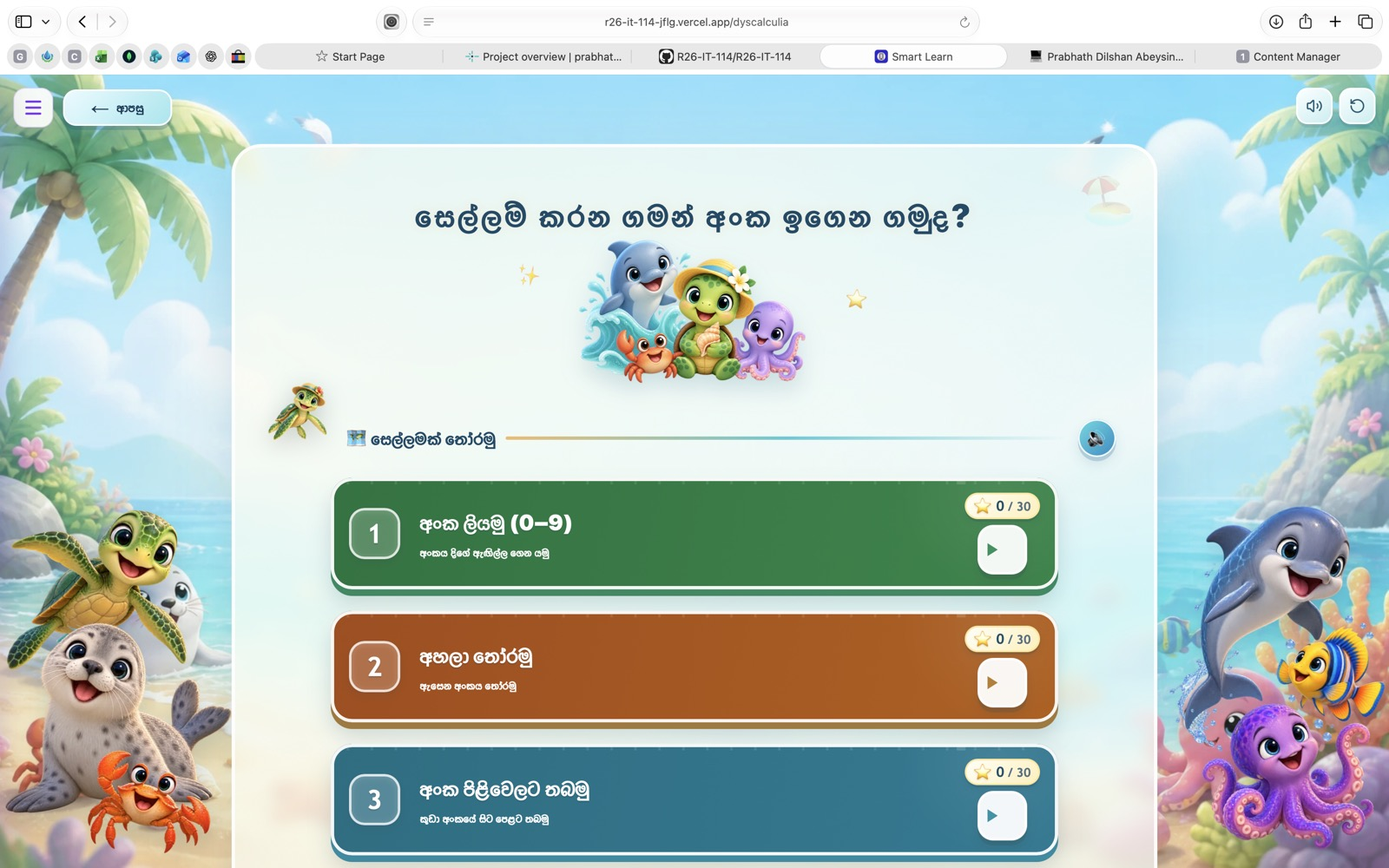
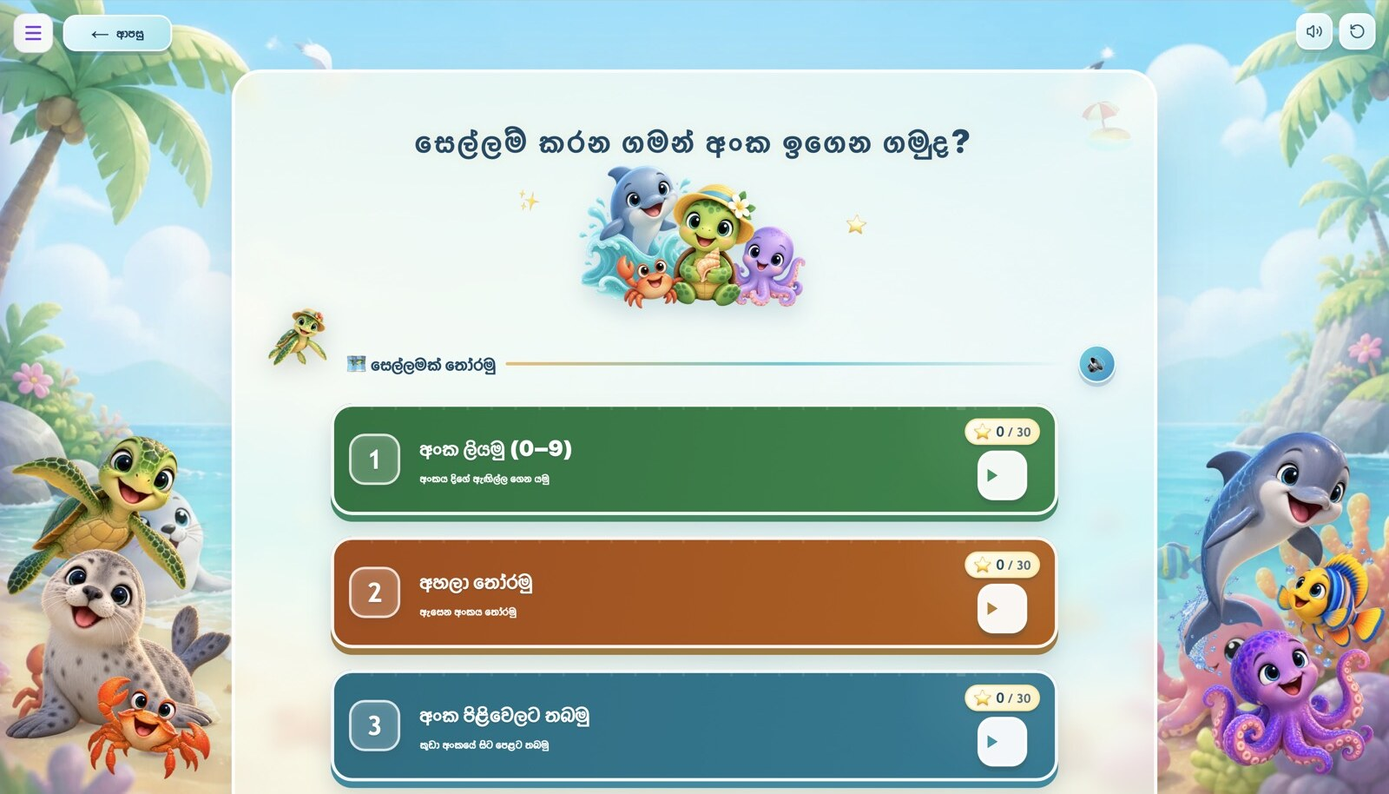
Crop browser toolbars from research and tender screenshots

diff --git a/index.html b/index.html
@@ -273,7 +273,7 @@
     </section>
 
 <section id="certifications" class="skills"><div class="container"><div class="section-header"><h2 class="section-title">Training &amp; Achievements</h2><p class="section-subtitle">Cloud learning, leadership and accomplishments</p></div><div class="skills-grid"><div class="skill-category"><h3>AWS SimuLearn</h3><p>Completion certificates (2026): Cloud Computing Essentials; Cloud First Steps; Core Security Concepts; Highly Available Web Applications; Databases in Practice; First NoSQL Database; Networking Concepts; File Systems in the Cloud; Computing Solutions.</p></div><div class="skill-category"><h3>Achievements</h3><p>Mathematics Olympiad — 1st Place, Nikawaratiya Division (2016); SLIIT Colours (2023, 2024); School Deputy Head Prefect (2020); School Sports Captain (2019–2020).</p></div><div class="skill-category"><h3>Additional Skills</h3><p>Problem-solving, communication, teamwork, design thinking, project coordination and technical troubleshooting.</p><p>Languages: Sinhala and English.</p></div></div></div></section>
-<section id="research" class="research"><div class="container"><div class="section-header"><p class="research-eyebrow">FEATURED UNDERGRADUATE RESEARCH</p><h2 class="section-title">Learning through play.</h2><p class="section-subtitle">Smart Learn — Dyscalculia Intervention Module</p></div><div class="research-intro"><div><h3>My contribution</h3><p>As a member of a four-person research group, I developed the Dyscalculia Intervention Module within Smart Learn, a platform designed for Sinhala-speaking children aged 6–8 with neurodevelopmental learning difficulties.</p><p>My component includes number tracing, sequencing, quantity matching and mathematical symbol recognition, with Sinhala instructions, progress indicators and star rewards in an ocean-themed interface.</p></div><div class="research-summary"><h3>Built with</h3><div class="project-tech"><span class="tech-tag"><span class="technology-logos" aria-hidden="true"><img class="technology-logo logo-react" src="assets/images/technologies/react.svg" alt="" width="24" height="24" loading="lazy"></span>React.js</span><span class="tech-tag"><span class="technology-logos" aria-hidden="true"><img class="technology-logo logo-javascript" src="assets/images/technologies/javascript.svg" alt="" width="24" height="24" loading="lazy"></span>JavaScript</span><span class="tech-tag"><span class="technology-logos" aria-hidden="true"><img class="technology-logo logo-firebase" src="assets/images/technologies/firebase.svg" alt="" width="24" height="24" loading="lazy"></span>Firebase</span><span class="tech-tag">REST APIs</span></div><a href="https://r26-it-114-jflg.vercel.app/dyscalculia" class="btn btn-primary" target="_blank" rel="noopener noreferrer">Try My Module ↗</a></div></div><div class="research-gallery"><figure class="research-shot"><div class="research-thumbnail"><a class="research-preview" style="--shot-ratio:1350/1040;--shot-width:147.85185%;--shot-left:-24.07407%;--shot-top:-19.23077%" href="assets/images/research/module-overview.jpg" target="_blank" rel="noopener noreferrer" aria-label="Open My learning module screenshot"><img src="assets/images/research/module-overview.jpg" alt="My learning module — Smart Learn screenshot" loading="lazy" width="1600" height="1000"></a></div><figcaption><h3>My learning module</h3><p>Sinhala game selection and activity progress.</p><a href="assets/images/research/module-overview.jpg" target="_blank" rel="noopener noreferrer">View screenshot ↗</a></figcaption></figure><figure class="research-shot"><div class="research-thumbnail"><a class="research-preview" style="--shot-ratio:1570/1100;--shot-width:127.13376%;--shot-left:-25.79618%;--shot-top:-11.81818%" href="assets/images/research/number-tracing.jpg" target="_blank" rel="noopener noreferrer" aria-label="Open Number tracing screenshot"><img src="assets/images/research/number-tracing.jpg" alt="Number tracing — Smart Learn screenshot" loading="lazy" width="1600" height="1000"></a></div><figcaption><h3>Number tracing</h3><p>A guided canvas for practicing number shapes.</p><a href="assets/images/research/number-tracing.jpg" target="_blank" rel="noopener noreferrer">View screenshot ↗</a></figcaption></figure><figure class="research-shot"><div class="research-thumbnail"><a class="research-preview" style="--shot-ratio:1630/585;--shot-width:122.45399%;--shot-left:-21.16564%;--shot-top:-34.18803%" href="assets/images/research/number-sequencing.jpg" target="_blank" rel="noopener noreferrer" aria-label="Open Number sequencing screenshot"><img src="assets/images/research/number-sequencing.jpg" alt="Number sequencing — Smart Learn screenshot" loading="lazy" width="1600" height="1000"></a></div><figcaption><h3>Number sequencing</h3><p>Arrange numbers in order through interactive activities.</p><a href="assets/images/research/number-sequencing.jpg" target="_blank" rel="noopener noreferrer">View screenshot ↗</a></figcaption></figure><figure class="research-shot"><div class="research-thumbnail"><a class="research-preview" style="--shot-ratio:1605/775;--shot-width:124.36137%;--shot-left:-23.05296%;--shot-top:-25.80645%" href="assets/images/research/symbol-recognition.jpg" target="_blank" rel="noopener noreferrer" aria-label="Open Symbol recognition screenshot"><img src="assets/images/research/symbol-recognition.jpg" alt="Symbol recognition — Smart Learn screenshot" loading="lazy" width="1600" height="1000"></a></div><figcaption><h3>Symbol recognition</h3><p>Identify mathematical symbols using Sinhala prompts.</p><a href="assets/images/research/symbol-recognition.jpg" target="_blank" rel="noopener noreferrer">View screenshot ↗</a></figcaption></figure><figure class="research-shot"><div class="research-thumbnail"><a class="research-preview" style="--shot-ratio:1630/930;--shot-width:122.45399%;--shot-left:-21.16564%;--shot-top:-21.50538%" href="assets/images/research/quantity-matching.jpg" target="_blank" rel="noopener noreferrer" aria-label="Open Quantity matching screenshot"><img src="assets/images/research/quantity-matching.jpg" alt="Quantity matching — Smart Learn screenshot" loading="lazy" width="1600" height="1000"></a></div><figcaption><h3>Quantity matching</h3><p>Connect a number with its matching quantity.</p><a href="assets/images/research/quantity-matching.jpg" target="_blank" rel="noopener noreferrer">View screenshot ↗</a></figcaption></figure><figure class="research-shot"><div class="research-thumbnail"><a class="research-preview" style="--shot-ratio:1310/1110;--shot-width:152.36641%;--shot-left:-26.33588%;--shot-top:-11.71171%" href="assets/images/research/difficulty-levels.jpg" target="_blank" rel="noopener noreferrer" aria-label="Open Difficulty levels screenshot"><img src="assets/images/research/difficulty-levels.jpg" alt="Difficulty levels — Smart Learn screenshot" loading="lazy" width="1600" height="1000"></a></div><figcaption><h3>Difficulty levels</h3><p>Level selection and star-based progression.</p><a href="assets/images/research/difficulty-levels.jpg" target="_blank" rel="noopener noreferrer">View screenshot ↗</a></figcaption></figure><figure class="research-shot"><div class="research-thumbnail"><a class="research-preview" style="--shot-ratio:1465/795;--shot-width:136.24573%;--shot-left:-18.43003%;--shot-top:-18.23899%" href="assets/images/research/platform-overview.jpg" target="_blank" rel="noopener noreferrer" aria-label="Open Platform overview · Team project screenshot"><img src="assets/images/research/platform-overview.jpg" alt="Platform overview · Team project — Smart Learn screenshot" loading="lazy" width="1600" height="1000"></a></div><figcaption><h3>Platform overview · Team project</h3><p>The wider Smart Learn platform, shown for context.</p><a href="assets/images/research/platform-overview.jpg" target="_blank" rel="noopener noreferrer">View screenshot ↗</a></figcaption></figure></div></div></section>
+<section id="research" class="research"><div class="container"><div class="section-header"><p class="research-eyebrow">FEATURED UNDERGRADUATE RESEARCH</p><h2 class="section-title">Learning through play.</h2><p class="section-subtitle">Smart Learn — Dyscalculia Intervention Module</p></div><div class="research-intro"><div><h3>My contribution</h3><p>As a member of a four-person research group, I developed the Dyscalculia Intervention Module within Smart Learn, a platform designed for Sinhala-speaking children aged 6–8 with neurodevelopmental learning difficulties.</p><p>My component includes number tracing, sequencing, quantity matching and mathematical symbol recognition, with Sinhala instructions, progress indicators and star rewards in an ocean-themed interface.</p></div><div class="research-summary"><h3>Built with</h3><div class="project-tech"><span class="tech-tag"><span class="technology-logos" aria-hidden="true"><img class="technology-logo logo-react" src="assets/images/technologies/react.svg" alt="" width="24" height="24" loading="lazy"></span>React.js</span><span class="tech-tag"><span class="technology-logos" aria-hidden="true"><img class="technology-logo logo-javascript" src="assets/images/technologies/javascript.svg" alt="" width="24" height="24" loading="lazy"></span>JavaScript</span><span class="tech-tag"><span class="technology-logos" aria-hidden="true"><img class="technology-logo logo-firebase" src="assets/images/technologies/firebase.svg" alt="" width="24" height="24" loading="lazy"></span>Firebase</span><span class="tech-tag">REST APIs</span></div><a href="https://r26-it-114-jflg.vercel.app/dyscalculia" class="btn btn-primary" target="_blank" rel="noopener noreferrer">Try My Module ↗</a></div></div><div class="research-gallery"><figure class="research-shot"><div class="research-thumbnail"><a class="research-preview" style="--shot-ratio:1350/1040;--shot-width:147.85185%;--shot-left:-24.07407%;--shot-top:-8.91490%" href="assets/images/research/module-overview.jpg" target="_blank" rel="noopener noreferrer" aria-label="Open My learning module screenshot"><img src="assets/images/research/module-overview.jpg" alt="My learning module — Smart Learn screenshot" loading="lazy" width="1600" height="914"></a></div><figcaption><h3>My learning module</h3><p>Sinhala game selection and activity progress.</p><a href="assets/images/research/module-overview.jpg" target="_blank" rel="noopener noreferrer">View screenshot ↗</a></figcaption></figure><figure class="research-shot"><div class="research-thumbnail"><a class="research-preview" style="--shot-ratio:1570/1100;--shot-width:127.13376%;--shot-left:-25.79618%;--shot-top:-2.06500%" href="assets/images/research/number-tracing.jpg" target="_blank" rel="noopener noreferrer" aria-label="Open Number tracing screenshot"><img src="assets/images/research/number-tracing.jpg" alt="Number tracing — Smart Learn screenshot" loading="lazy" width="1600" height="914"></a></div><figcaption><h3>Number tracing</h3><p>A guided canvas for practicing number shapes.</p><a href="assets/images/research/number-tracing.jpg" target="_blank" rel="noopener noreferrer">View screenshot ↗</a></figcaption></figure><figure class="research-shot"><div class="research-thumbnail"><a class="research-preview" style="--shot-ratio:1630/585;--shot-width:122.45399%;--shot-left:-21.16564%;--shot-top:-15.84871%" href="assets/images/research/number-sequencing.jpg" target="_blank" rel="noopener noreferrer" aria-label="Open Number sequencing screenshot"><img src="assets/images/research/number-sequencing.jpg" alt="Number sequencing — Smart Learn screenshot" loading="lazy" width="1600" height="914"></a></div><figcaption><h3>Number sequencing</h3><p>Arrange numbers in order through interactive activities.</p><a href="assets/images/research/number-sequencing.jpg" target="_blank" rel="noopener noreferrer">View screenshot ↗</a></figcaption></figure><figure class="research-shot"><div class="research-thumbnail"><a class="research-preview" style="--shot-ratio:1605/775;--shot-width:124.36137%;--shot-left:-23.05296%;--shot-top:-11.96322%" href="assets/images/research/symbol-recognition.jpg" target="_blank" rel="noopener noreferrer" aria-label="Open Symbol recognition screenshot"><img src="assets/images/research/symbol-recognition.jpg" alt="Symbol recognition — Smart Learn screenshot" loading="lazy" width="1600" height="914"></a></div><figcaption><h3>Symbol recognition</h3><p>Identify mathematical symbols using Sinhala prompts.</p><a href="assets/images/research/symbol-recognition.jpg" target="_blank" rel="noopener noreferrer">View screenshot ↗</a></figcaption></figure><figure class="research-shot"><div class="research-thumbnail"><a class="research-preview" style="--shot-ratio:1630/930;--shot-width:122.45399%;--shot-left:-21.16564%;--shot-top:-9.96936%" href="assets/images/research/quantity-matching.jpg" target="_blank" rel="noopener noreferrer" aria-label="Open Quantity matching screenshot"><img src="assets/images/research/quantity-matching.jpg" alt="Quantity matching — Smart Learn screenshot" loading="lazy" width="1600" height="914"></a></div><figcaption><h3>Quantity matching</h3><p>Connect a number with its matching quantity.</p><a href="assets/images/research/quantity-matching.jpg" target="_blank" rel="noopener noreferrer">View screenshot ↗</a></figcaption></figure><figure class="research-shot"><div class="research-thumbnail"><a class="research-preview" style="--shot-ratio:1310/1110;--shot-width:152.36641%;--shot-left:-26.33588%;--shot-top:-2.04639%" href="assets/images/research/difficulty-levels.jpg" target="_blank" rel="noopener noreferrer" aria-label="Open Difficulty levels screenshot"><img src="assets/images/research/difficulty-levels.jpg" alt="Difficulty levels — Smart Learn screenshot" loading="lazy" width="1600" height="914"></a></div><figcaption><h3>Difficulty levels</h3><p>Level selection and star-based progression.</p><a href="assets/images/research/difficulty-levels.jpg" target="_blank" rel="noopener noreferrer">View screenshot ↗</a></figcaption></figure><figure class="research-shot"><div class="research-thumbnail"><a class="research-preview" style="--shot-ratio:1465/795;--shot-width:136.24573%;--shot-left:-18.43003%;--shot-top:-4.74402%" href="assets/images/research/platform-overview.jpg" target="_blank" rel="noopener noreferrer" aria-label="Open Platform overview · Team project screenshot"><img src="assets/images/research/platform-overview.jpg" alt="Platform overview · Team project — Smart Learn screenshot" loading="lazy" width="1600" height="914"></a></div><figcaption><h3>Platform overview · Team project</h3><p>The wider Smart Learn platform, shown for context.</p><a href="assets/images/research/platform-overview.jpg" target="_blank" rel="noopener noreferrer">View screenshot ↗</a></figcaption></figure></div></div></section>
     <!-- Projects Section -->
     <section id="projects" class="projects">
         <div class="container">
@@ -287,7 +287,7 @@
 <button type="button" class="filter-button" data-filter="group" aria-pressed="false" aria-controls="project-list">Group</button>
 <button type="button" class="filter-button" data-filter="research" aria-pressed="false" aria-controls="project-list">Research</button>
 <button type="button" class="filter-button" data-filter="other" aria-pressed="false" aria-controls="project-list">Other</button>
-</div><p id="project-count" class="project-count" role="status" aria-live="polite"></p><div class="projects-grid" id="project-list"><div class="project-card" data-category="research"><a href="#research" class="project-image research-card-image" aria-label="Explore Smart Learn research"><img src="assets/images/research/module-overview.jpg" alt="Smart Learn learning activity selection" loading="lazy" width="1600" height="1000"></a><div class="project-content"><h3>Smart Learn — Dyscalculia Intervention Module</h3><p class="project-role">Team research · 4 members · My contribution: Dyscalculia Intervention Module</p><p>Undergraduate research supporting Sinhala-speaking children aged 6–8. Includes Number Tracing (0–9), Number Sorting, Balloon Pop and Number Listening, with touch-friendly drag-and-drop, immediate feedback, progress tracking and performance-based star rewards.</p><div class="project-tech"><span class="tech-tag"><span class="technology-logos" aria-hidden="true"><img class="technology-logo logo-react" src="assets/images/technologies/react.svg" alt="" width="24" height="24" loading="lazy"></span>React.js</span><span class="tech-tag"><span class="technology-logos" aria-hidden="true"><img class="technology-logo logo-javascript" src="assets/images/technologies/javascript.svg" alt="" width="24" height="24" loading="lazy"></span>JavaScript</span><span class="tech-tag"><span class="technology-logos" aria-hidden="true"><img class="technology-logo logo-firebase" src="assets/images/technologies/firebase.svg" alt="" width="24" height="24" loading="lazy"></span>Firebase</span><span class="tech-tag">REST APIs</span></div><div class="project-links"><a class="project-link" href="https://github.com/Dill1027/4Y-Research-Project" target="_blank" rel="noopener noreferrer" aria-label="View Smart Learn — Dyscalculia Intervention Module repository on GitHub"><i class="fab fa-github" aria-hidden="true"></i> GitHub</a><a class="project-link" href="https://r26-it-114-jflg.vercel.app" target="_blank" rel="noopener noreferrer" aria-label="View Smart Learn live demo"><i class="fas fa-external-link-alt" aria-hidden="true"></i> Live Demo</a></div></div></div><div class="project-card" data-category="individual"><div class="project-image project-screenshot"><img src="assets/images/projects/vehicle-dashboard.jpg" alt="Deep Tec Vehicle Management dashboard with vehicle status and expiry summaries" loading="lazy" width="1440" height="1000"></div><div class="project-content"><h3>Online Vehicle Management System</h3><p class="project-role">Individual project</p><p>Individual industry project to manage company vehicle information and related workflows.</p><div class="project-tech"><span class="tech-tag"><span class="technology-logos" aria-hidden="true"><img class="technology-logo logo-react" src="assets/images/technologies/react.svg" alt="" width="24" height="24" loading="lazy"></span>React.js</span><span class="tech-tag"><span class="technology-logos" aria-hidden="true"><img class="technology-logo logo-nodejs" src="assets/images/technologies/nodejs.svg" alt="" width="24" height="24" loading="lazy"></span>Node.js</span><span class="tech-tag"><span class="technology-logos" aria-hidden="true"><img class="technology-logo logo-express" src="assets/images/technologies/express.svg" alt="" width="24" height="24" loading="lazy"></span>Express.js</span><span class="tech-tag"><span class="technology-logos" aria-hidden="true"><img class="technology-logo logo-mongodb" src="assets/images/technologies/mongodb.svg" alt="" width="24" height="24" loading="lazy"></span>MongoDB</span></div><div class="project-links"><a class="project-link" href="https://github.com/Dill1027/DT_Vehicles_Management" target="_blank" rel="noopener noreferrer" aria-label="View Online Vehicle Management System repository on GitHub"><i class="fab fa-github" aria-hidden="true"></i> GitHub</a></div></div></div><div class="project-card" data-category="individual"><a class="project-image project-screenshot" href="https://solar-service-shedule.vercel.app/" target="_blank" rel="noopener noreferrer" aria-label="Open Solar Service Reminder System live demo"><img src="assets/images/projects/solar-dashboard.jpg" alt="Solar Service Tracker dashboard with installation, capacity and service summaries" loading="lazy" width="1440" height="1000"></a><div class="project-content"><h3>Solar Service Reminder System</h3><p class="project-role">Individual project</p><p>Individual industry project providing scheduling and reminders for solar service activities.</p><div class="project-tech"><span class="tech-tag"><span class="technology-logos" aria-hidden="true"><img class="technology-logo logo-react" src="assets/images/technologies/react.svg" alt="" width="24" height="24" loading="lazy"></span>React.js</span><span class="tech-tag"><span class="technology-logos" aria-hidden="true"><img class="technology-logo logo-express" src="assets/images/technologies/express.svg" alt="" width="24" height="24" loading="lazy"></span>Express.js</span><span class="tech-tag"><span class="technology-logos" aria-hidden="true"><img class="technology-logo logo-nodejs" src="assets/images/technologies/nodejs.svg" alt="" width="24" height="24" loading="lazy"></span>Node.js</span><span class="tech-tag"><span class="technology-logos" aria-hidden="true"><img class="technology-logo logo-firebase" src="assets/images/technologies/firebase.svg" alt="" width="24" height="24" loading="lazy"></span>Firebase</span></div><div class="project-links"><a class="project-link" href="https://github.com/Dill1027/solar-service-shedule" target="_blank" rel="noopener noreferrer" aria-label="View Solar Service Reminder System repository on GitHub"><i class="fab fa-github" aria-hidden="true"></i> GitHub</a><a class="project-link" href="https://solar-service-shedule.vercel.app/" target="_blank" rel="noopener noreferrer" aria-label="View Solar Service Reminder System live demo"><i class="fas fa-external-link-alt" aria-hidden="true"></i> Live Demo</a></div></div></div><div class="project-card" data-category="individual"><a class="project-image project-screenshot tender-screenshot" href="https://dt-tenders-app-4dbz.vercel.app/dashboard" target="_blank" rel="noopener noreferrer" aria-label="Open Tender Management System demo (sign-in required)"><img src="assets/images/projects/tender-dashboard.jpg" alt="DT TENDERS dashboard with project summary and tender filters" loading="lazy" width="1600" height="1000"></a><div class="project-content"><h3>Tender Management &amp; Reminder System</h3><p class="project-role">Individual project</p><p>Individual industry project to organize tenders and support deadline tracking.</p><div class="project-tech"><span class="tech-tag"><span class="technology-logos" aria-hidden="true"><img class="technology-logo logo-react" src="assets/images/technologies/react.svg" alt="" width="24" height="24" loading="lazy"></span>React.js</span><span class="tech-tag"><span class="technology-logos" aria-hidden="true"><img class="technology-logo logo-express" src="assets/images/technologies/express.svg" alt="" width="24" height="24" loading="lazy"></span>Express.js</span><span class="tech-tag"><span class="technology-logos" aria-hidden="true"><img class="technology-logo logo-nodejs" src="assets/images/technologies/nodejs.svg" alt="" width="24" height="24" loading="lazy"></span>Node.js</span><span class="tech-tag"><span class="technology-logos" aria-hidden="true"><img class="technology-logo logo-firebase" src="assets/images/technologies/firebase.svg" alt="" width="24" height="24" loading="lazy"></span>Firebase</span></div><div class="project-links"><a class="project-link" href="https://github.com/Dill1027/dt-tenders-app" target="_blank" rel="noopener noreferrer" aria-label="View Tender Management &amp; Reminder System repository on GitHub"><i class="fab fa-github" aria-hidden="true"></i> GitHub</a><a class="project-link" href="https://dt-tenders-app-4dbz.vercel.app/dashboard" target="_blank" rel="noopener noreferrer" aria-label="View Tender Management System live demo (sign-in required)"><i class="fas fa-external-link-alt" aria-hidden="true"></i> Live Demo (sign-in required)</a></div></div></div><div class="project-card" data-category="group"><a class="project-image project-screenshot" href="https://acedemic-sheduler.netlify.app/" target="_blank" rel="noopener noreferrer" aria-label="Open Academic Scheduler live demo"><img src="assets/images/projects/academic-scheduler-home.jpg" alt="Academic Scheduler home page with Shape Your Digital Future heading" loading="lazy" width="1440" height="1000"></a><div class="project-content"><h3>Academic Scheduler</h3><p class="project-role">Group project</p><p>SLIIT academic project built using the MERN stack.</p><div class="project-tech"><span class="tech-tag"><span class="technology-logos" aria-hidden="true"><img class="technology-logo logo-react" src="assets/images/technologies/react.svg" alt="" width="24" height="24" loading="lazy"></span>React.js</span><span class="tech-tag"><span class="technology-logos" aria-hidden="true"><img class="technology-logo logo-nodejs" src="assets/images/technologies/nodejs.svg" alt="" width="24" height="24" loading="lazy"></span>Node.js</span><span class="tech-tag"><span class="technology-logos" aria-hidden="true"><img class="technology-logo logo-express" src="assets/images/technologies/express.svg" alt="" width="24" height="24" loading="lazy"></span>Express.js</span><span class="tech-tag"><span class="technology-logos" aria-hidden="true"><img class="technology-logo logo-mongodb" src="assets/images/technologies/mongodb.svg" alt="" width="24" height="24" loading="lazy"></span>MongoDB</span></div><div class="project-links"><a class="project-link" href="https://acedemic-sheduler.netlify.app/" target="_blank" rel="noopener noreferrer">Live Demo</a><a class="project-link" href="https://github.com/Dill1027/Academic-Scheduler" target="_blank" rel="noopener noreferrer" aria-label="View Academic Scheduler repository on GitHub"><i class="fab fa-github" aria-hidden="true"></i> GitHub</a></div></div></div><div class="project-card" data-category="other"><div class="project-image"><i class="fas fa-calculator" aria-hidden="true"></i></div><div class="project-content"><h3>Android Calculator</h3><p class="project-role">Android application</p><p>A Kotlin calculator with addition, subtraction, multiplication and division, input validation and division-by-zero handling.</p><div class="project-tech"><span class="tech-tag"><span class="technology-logos" aria-hidden="true"><img class="technology-logo logo-kotlin" src="assets/images/technologies/kotlin.svg" alt="" width="24" height="24" loading="lazy"></span>Kotlin</span></div><div class="project-links"><a class="project-link" href="https://github.com/Dill1027/MyAndroidProject" target="_blank" rel="noopener noreferrer" aria-label="View Android Calculator repository on GitHub"><i class="fab fa-github" aria-hidden="true"></i> GitHub</a></div></div></div><div class="project-card" data-category="individual"><div class="project-image"><i class="fas fa-list-check" aria-hidden="true"></i></div><div class="project-content"><h3>To-Do App</h3><p class="project-role">Individual project</p><p>SLIIT academic project built with Kotlin.</p><div class="project-tech"><span class="tech-tag"><span class="technology-logos" aria-hidden="true"><img class="technology-logo logo-kotlin" src="assets/images/technologies/kotlin.svg" alt="" width="24" height="24" loading="lazy"></span>Kotlin</span></div></div></div><div class="project-card" data-category="group"><div class="project-image"><i class="fas fa-users" aria-hidden="true"></i></div><div class="project-content"><h3>Dry Craft — Social Media App</h3><p class="project-role">Group project</p><p>Group project for sharing craft tutorials, posts and media, built with React, Spring Boot and MongoDB.</p><div class="project-tech"><span class="tech-tag"><span class="technology-logos" aria-hidden="true"><img class="technology-logo logo-spring" src="assets/images/technologies/spring.svg" alt="" width="24" height="24" loading="lazy"></span>Spring Boot</span></div><div class="project-links"><a class="project-link" href="https://github.com/Dill1027/Dry_Craft" target="_blank" rel="noopener noreferrer" aria-label="View Social Media App repository on GitHub"><i class="fab fa-github" aria-hidden="true"></i> GitHub</a></div></div></div><div class="project-card" data-category="individual"><div class="project-image"><i class="fas fa-shirt" aria-hidden="true"></i></div><div class="project-content"><h3>Apparel Manufacturing Web App</h3><p class="project-role">Individual project</p><p>SLIIT academic project built with the MERN stack.</p><div class="project-tech"><span class="tech-tag"><span class="technology-logos" aria-hidden="true"><img class="technology-logo logo-react" src="assets/images/technologies/react.svg" alt="" width="24" height="24" loading="lazy"></span>React.js</span><span class="tech-tag"><span class="technology-logos" aria-hidden="true"><img class="technology-logo logo-nodejs" src="assets/images/technologies/nodejs.svg" alt="" width="24" height="24" loading="lazy"></span>Node.js</span><span class="tech-tag"><span class="technology-logos" aria-hidden="true"><img class="technology-logo logo-express" src="assets/images/technologies/express.svg" alt="" width="24" height="24" loading="lazy"></span>Express.js</span><span class="tech-tag"><span class="technology-logos" aria-hidden="true"><img class="technology-logo logo-mongodb" src="assets/images/technologies/mongodb.svg" alt="" width="24" height="24" loading="lazy"></span>MongoDB</span></div><div class="project-links"><a class="project-link" href="https://github.com/Dill1027/Appreal_manufacturing" target="_blank" rel="noopener noreferrer" aria-label="View Apparel Manufacturing Web App repository on GitHub"><i class="fab fa-github" aria-hidden="true"></i> GitHub</a></div></div></div></div><aside class="repository-notes" aria-labelledby="repository-notes-title"><h3 id="repository-notes-title">Additional repositories</h3><p>Related repository links. These repositories do not currently contain application source code.</p><ul><li><a href="https://github.com/Dill1027/DeepTecSolarALL" target="_blank" rel="noopener noreferrer">DeepTecSolarALL ↗</a><span>README only</span></li><li><a href="https://github.com/Dill1027/Deeptecallinone" target="_blank" rel="noopener noreferrer">Deeptecallinone ↗</a><span>Empty repository</span></li></ul></aside></div></section>
+</div><p id="project-count" class="project-count" role="status" aria-live="polite"></p><div class="projects-grid" id="project-list"><div class="project-card" data-category="research"><a href="#research" class="project-image research-card-image" aria-label="Explore Smart Learn research"><img src="assets/images/research/module-overview.jpg" alt="Smart Learn learning activity selection" loading="lazy" width="1600" height="914"></a><div class="project-content"><h3>Smart Learn — Dyscalculia Intervention Module</h3><p class="project-role">Team research · 4 members · My contribution: Dyscalculia Intervention Module</p><p>Undergraduate research supporting Sinhala-speaking children aged 6–8. Includes Number Tracing (0–9), Number Sorting, Balloon Pop and Number Listening, with touch-friendly drag-and-drop, immediate feedback, progress tracking and performance-based star rewards.</p><div class="project-tech"><span class="tech-tag"><span class="technology-logos" aria-hidden="true"><img class="technology-logo logo-react" src="assets/images/technologies/react.svg" alt="" width="24" height="24" loading="lazy"></span>React.js</span><span class="tech-tag"><span class="technology-logos" aria-hidden="true"><img class="technology-logo logo-javascript" src="assets/images/technologies/javascript.svg" alt="" width="24" height="24" loading="lazy"></span>JavaScript</span><span class="tech-tag"><span class="technology-logos" aria-hidden="true"><img class="technology-logo logo-firebase" src="assets/images/technologies/firebase.svg" alt="" width="24" height="24" loading="lazy"></span>Firebase</span><span class="tech-tag">REST APIs</span></div><div class="project-links"><a class="project-link" href="https://github.com/Dill1027/4Y-Research-Project" target="_blank" rel="noopener noreferrer" aria-label="View Smart Learn — Dyscalculia Intervention Module repository on GitHub"><i class="fab fa-github" aria-hidden="true"></i> GitHub</a><a class="project-link" href="https://r26-it-114-jflg.vercel.app" target="_blank" rel="noopener noreferrer" aria-label="View Smart Learn live demo"><i class="fas fa-external-link-alt" aria-hidden="true"></i> Live Demo</a></div></div></div><div class="project-card" data-category="individual"><div class="project-image project-screenshot"><img src="assets/images/projects/vehicle-dashboard.jpg" alt="Deep Tec Vehicle Management dashboard with vehicle status and expiry summaries" loading="lazy" width="1440" height="1000"></div><div class="project-content"><h3>Online Vehicle Management System</h3><p class="project-role">Individual project</p><p>Individual industry project to manage company vehicle information and related workflows.</p><div class="project-tech"><span class="tech-tag"><span class="technology-logos" aria-hidden="true"><img class="technology-logo logo-react" src="assets/images/technologies/react.svg" alt="" width="24" height="24" loading="lazy"></span>React.js</span><span class="tech-tag"><span class="technology-logos" aria-hidden="true"><img class="technology-logo logo-nodejs" src="assets/images/technologies/nodejs.svg" alt="" width="24" height="24" loading="lazy"></span>Node.js</span><span class="tech-tag"><span class="technology-logos" aria-hidden="true"><img class="technology-logo logo-express" src="assets/images/technologies/express.svg" alt="" width="24" height="24" loading="lazy"></span>Express.js</span><span class="tech-tag"><span class="technology-logos" aria-hidden="true"><img class="technology-logo logo-mongodb" src="assets/images/technologies/mongodb.svg" alt="" width="24" height="24" loading="lazy"></span>MongoDB</span></div><div class="project-links"><a class="project-link" href="https://github.com/Dill1027/DT_Vehicles_Management" target="_blank" rel="noopener noreferrer" aria-label="View Online Vehicle Management System repository on GitHub"><i class="fab fa-github" aria-hidden="true"></i> GitHub</a></div></div></div><div class="project-card" data-category="individual"><a class="project-image project-screenshot" href="https://solar-service-shedule.vercel.app/" target="_blank" rel="noopener noreferrer" aria-label="Open Solar Service Reminder System live demo"><img src="assets/images/projects/solar-dashboard.jpg" alt="Solar Service Tracker dashboard with installation, capacity and service summaries" loading="lazy" width="1440" height="1000"></a><div class="project-content"><h3>Solar Service Reminder System</h3><p class="project-role">Individual project</p><p>Individual industry project providing scheduling and reminders for solar service activities.</p><div class="project-tech"><span class="tech-tag"><span class="technology-logos" aria-hidden="true"><img class="technology-logo logo-react" src="assets/images/technologies/react.svg" alt="" width="24" height="24" loading="lazy"></span>React.js</span><span class="tech-tag"><span class="technology-logos" aria-hidden="true"><img class="technology-logo logo-express" src="assets/images/technologies/express.svg" alt="" width="24" height="24" loading="lazy"></span>Express.js</span><span class="tech-tag"><span class="technology-logos" aria-hidden="true"><img class="technology-logo logo-nodejs" src="assets/images/technologies/nodejs.svg" alt="" width="24" height="24" loading="lazy"></span>Node.js</span><span class="tech-tag"><span class="technology-logos" aria-hidden="true"><img class="technology-logo logo-firebase" src="assets/images/technologies/firebase.svg" alt="" width="24" height="24" loading="lazy"></span>Firebase</span></div><div class="project-links"><a class="project-link" href="https://github.com/Dill1027/solar-service-shedule" target="_blank" rel="noopener noreferrer" aria-label="View Solar Service Reminder System repository on GitHub"><i class="fab fa-github" aria-hidden="true"></i> GitHub</a><a class="project-link" href="https://solar-service-shedule.vercel.app/" target="_blank" rel="noopener noreferrer" aria-label="View Solar Service Reminder System live demo"><i class="fas fa-external-link-alt" aria-hidden="true"></i> Live Demo</a></div></div></div><div class="project-card" data-category="individual"><a class="project-image project-screenshot tender-screenshot" href="https://dt-tenders-app-4dbz.vercel.app/dashboard" target="_blank" rel="noopener noreferrer" aria-label="Open Tender Management System demo (sign-in required)"><img src="assets/images/projects/tender-dashboard.jpg" alt="DT TENDERS dashboard with project summary and tender filters" loading="lazy" width="1600" height="914"></a><div class="project-content"><h3>Tender Management &amp; Reminder System</h3><p class="project-role">Individual project</p><p>Individual industry project to organize tenders and support deadline tracking.</p><div class="project-tech"><span class="tech-tag"><span class="technology-logos" aria-hidden="true"><img class="technology-logo logo-react" src="assets/images/technologies/react.svg" alt="" width="24" height="24" loading="lazy"></span>React.js</span><span class="tech-tag"><span class="technology-logos" aria-hidden="true"><img class="technology-logo logo-express" src="assets/images/technologies/express.svg" alt="" width="24" height="24" loading="lazy"></span>Express.js</span><span class="tech-tag"><span class="technology-logos" aria-hidden="true"><img class="technology-logo logo-nodejs" src="assets/images/technologies/nodejs.svg" alt="" width="24" height="24" loading="lazy"></span>Node.js</span><span class="tech-tag"><span class="technology-logos" aria-hidden="true"><img class="technology-logo logo-firebase" src="assets/images/technologies/firebase.svg" alt="" width="24" height="24" loading="lazy"></span>Firebase</span></div><div class="project-links"><a class="project-link" href="https://github.com/Dill1027/dt-tenders-app" target="_blank" rel="noopener noreferrer" aria-label="View Tender Management &amp; Reminder System repository on GitHub"><i class="fab fa-github" aria-hidden="true"></i> GitHub</a><a class="project-link" href="https://dt-tenders-app-4dbz.vercel.app/dashboard" target="_blank" rel="noopener noreferrer" aria-label="View Tender Management System live demo (sign-in required)"><i class="fas fa-external-link-alt" aria-hidden="true"></i> Live Demo (sign-in required)</a></div></div></div><div class="project-card" data-category="group"><a class="project-image project-screenshot" href="https://acedemic-sheduler.netlify.app/" target="_blank" rel="noopener noreferrer" aria-label="Open Academic Scheduler live demo"><img src="assets/images/projects/academic-scheduler-home.jpg" alt="Academic Scheduler home page with Shape Your Digital Future heading" loading="lazy" width="1440" height="1000"></a><div class="project-content"><h3>Academic Scheduler</h3><p class="project-role">Group project</p><p>SLIIT academic project built using the MERN stack.</p><div class="project-tech"><span class="tech-tag"><span class="technology-logos" aria-hidden="true"><img class="technology-logo logo-react" src="assets/images/technologies/react.svg" alt="" width="24" height="24" loading="lazy"></span>React.js</span><span class="tech-tag"><span class="technology-logos" aria-hidden="true"><img class="technology-logo logo-nodejs" src="assets/images/technologies/nodejs.svg" alt="" width="24" height="24" loading="lazy"></span>Node.js</span><span class="tech-tag"><span class="technology-logos" aria-hidden="true"><img class="technology-logo logo-express" src="assets/images/technologies/express.svg" alt="" width="24" height="24" loading="lazy"></span>Express.js</span><span class="tech-tag"><span class="technology-logos" aria-hidden="true"><img class="technology-logo logo-mongodb" src="assets/images/technologies/mongodb.svg" alt="" width="24" height="24" loading="lazy"></span>MongoDB</span></div><div class="project-links"><a class="project-link" href="https://acedemic-sheduler.netlify.app/" target="_blank" rel="noopener noreferrer">Live Demo</a><a class="project-link" href="https://github.com/Dill1027/Academic-Scheduler" target="_blank" rel="noopener noreferrer" aria-label="View Academic Scheduler repository on GitHub"><i class="fab fa-github" aria-hidden="true"></i> GitHub</a></div></div></div><div class="project-card" data-category="other"><div class="project-image"><i class="fas fa-calculator" aria-hidden="true"></i></div><div class="project-content"><h3>Android Calculator</h3><p class="project-role">Android application</p><p>A Kotlin calculator with addition, subtraction, multiplication and division, input validation and division-by-zero handling.</p><div class="project-tech"><span class="tech-tag"><span class="technology-logos" aria-hidden="true"><img class="technology-logo logo-kotlin" src="assets/images/technologies/kotlin.svg" alt="" width="24" height="24" loading="lazy"></span>Kotlin</span></div><div class="project-links"><a class="project-link" href="https://github.com/Dill1027/MyAndroidProject" target="_blank" rel="noopener noreferrer" aria-label="View Android Calculator repository on GitHub"><i class="fab fa-github" aria-hidden="true"></i> GitHub</a></div></div></div><div class="project-card" data-category="individual"><div class="project-image"><i class="fas fa-list-check" aria-hidden="true"></i></div><div class="project-content"><h3>To-Do App</h3><p class="project-role">Individual project</p><p>SLIIT academic project built with Kotlin.</p><div class="project-tech"><span class="tech-tag"><span class="technology-logos" aria-hidden="true"><img class="technology-logo logo-kotlin" src="assets/images/technologies/kotlin.svg" alt="" width="24" height="24" loading="lazy"></span>Kotlin</span></div></div></div><div class="project-card" data-category="group"><div class="project-image"><i class="fas fa-users" aria-hidden="true"></i></div><div class="project-content"><h3>Dry Craft — Social Media App</h3><p class="project-role">Group project</p><p>Group project for sharing craft tutorials, posts and media, built with React, Spring Boot and MongoDB.</p><div class="project-tech"><span class="tech-tag"><span class="technology-logos" aria-hidden="true"><img class="technology-logo logo-spring" src="assets/images/technologies/spring.svg" alt="" width="24" height="24" loading="lazy"></span>Spring Boot</span></div><div class="project-links"><a class="project-link" href="https://github.com/Dill1027/Dry_Craft" target="_blank" rel="noopener noreferrer" aria-label="View Social Media App repository on GitHub"><i class="fab fa-github" aria-hidden="true"></i> GitHub</a></div></div></div><div class="project-card" data-category="individual"><div class="project-image"><i class="fas fa-shirt" aria-hidden="true"></i></div><div class="project-content"><h3>Apparel Manufacturing Web App</h3><p class="project-role">Individual project</p><p>SLIIT academic project built with the MERN stack.</p><div class="project-tech"><span class="tech-tag"><span class="technology-logos" aria-hidden="true"><img class="technology-logo logo-react" src="assets/images/technologies/react.svg" alt="" width="24" height="24" loading="lazy"></span>React.js</span><span class="tech-tag"><span class="technology-logos" aria-hidden="true"><img class="technology-logo logo-nodejs" src="assets/images/technologies/nodejs.svg" alt="" width="24" height="24" loading="lazy"></span>Node.js</span><span class="tech-tag"><span class="technology-logos" aria-hidden="true"><img class="technology-logo logo-express" src="assets/images/technologies/express.svg" alt="" width="24" height="24" loading="lazy"></span>Express.js</span><span class="tech-tag"><span class="technology-logos" aria-hidden="true"><img class="technology-logo logo-mongodb" src="assets/images/technologies/mongodb.svg" alt="" width="24" height="24" loading="lazy"></span>MongoDB</span></div><div class="project-links"><a class="project-link" href="https://github.com/Dill1027/Appreal_manufacturing" target="_blank" rel="noopener noreferrer" aria-label="View Apparel Manufacturing Web App repository on GitHub"><i class="fab fa-github" aria-hidden="true"></i> GitHub</a></div></div></div></div><aside class="repository-notes" aria-labelledby="repository-notes-title"><h3 id="repository-notes-title">Additional repositories</h3><p>Related repository links. These repositories do not currently contain application source code.</p><ul><li><a href="https://github.com/Dill1027/DeepTecSolarALL" target="_blank" rel="noopener noreferrer">DeepTecSolarALL ↗</a><span>README only</span></li><li><a href="https://github.com/Dill1027/Deeptecallinone" target="_blank" rel="noopener noreferrer">Deeptecallinone ↗</a><span>Empty repository</span></li></ul></aside></div></section>
 
     <!-- Contact Section -->
     <section id="contact" class="contact">

diff --git a/assets/css/styles.css b/assets/css/styles.css
@@ -660,12 +660,11 @@ section {
     display:none
 }
 .research-card-image img {
-    position:absolute;
-    width:148%;
-    max-width:none;
-    height:auto;
-    left:-24%;
-    top:-25%
+    display:block;
+    width:100%;
+    height:100%;
+    object-fit:cover;
+    object-position:center 35%;
 }
 /* Research screenshots retain original proportions and per-image crop viewports. */
 .research-eyebrow {
@@ -1237,9 +1236,9 @@ section {
 .project-screenshot::before { display:none; }
 .project-screenshot img { display:block; width:100%; height:100%; object-fit:contain; background:#041c3b; }
 
-/* Dashboard viewport excludes the screenshot's browser toolbar. */
+/* Dashboard source image has its browser toolbar physically removed. */
 .tender-screenshot { height:auto; aspect-ratio:1.75; }
-.tender-screenshot img { position:absolute; width:100%; height:auto; max-width:none; top:-9.4%; left:0; }
+.tender-screenshot img { position:absolute; width:100%; height:auto; max-width:none; top:0; left:0; }
 
 @media(max-width:991px) {
     .research-gallery { grid-template-columns:repeat(2,minmax(0,1fr)); gap:14px; }

diff --git a/docs/VALIDATION.md b/docs/VALIDATION.md
@@ -10,6 +10,6 @@ The page was served locally and tested in installed headless Google Chrome.
 - PDF: two pages generated from the supplied DOCX. Extracted text checked for experience, research, training and references; original DOCX retained.
 - Static checks: JavaScript syntax, local asset paths, unique IDs, matching HTML tags and section anchors.
 
-Research images are JPEG web copies, reduced from approximately 49 MB to 1.7 MB in total. The original supplied screenshots remain outside the repository on the user's Desktop. Screenshot crops remain CSS viewports, preserving the complete screenshot when opened separately.
+Research images are JPEG web copies, reduced from approximately 49 MB to 1.7 MB in total. The original supplied screenshots remain outside the repository on the user's Desktop. Safari browser chrome has been physically removed from the seven research images and tender preview. Gallery CSS viewports focus on the activity; opening an image separately also shows no Safari toolbar.
 
 `assets/css/styles.css` is a consolidated stylesheet. `assets/js/script.js` uses one passive, animation-frame-scheduled scroll listener, no perpetual typing timers, and no reveal animations that hide page content. Icon fonts and the profile image are local to avoid blank controls when external assets cannot load. Google Fonts are optional; system font fallbacks remain available.
